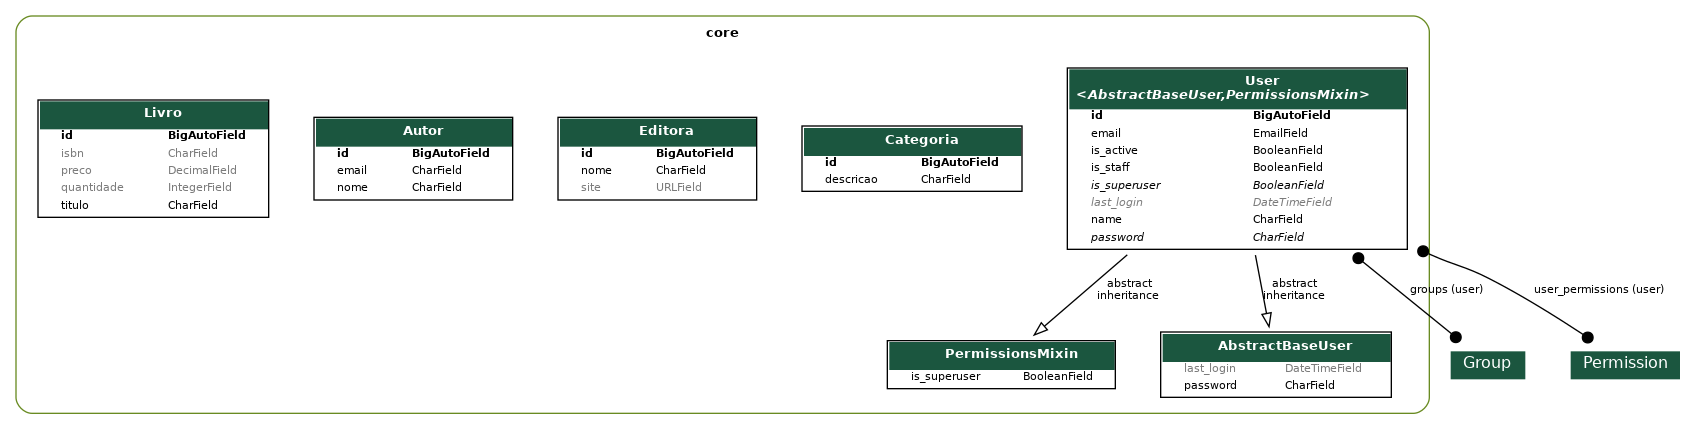
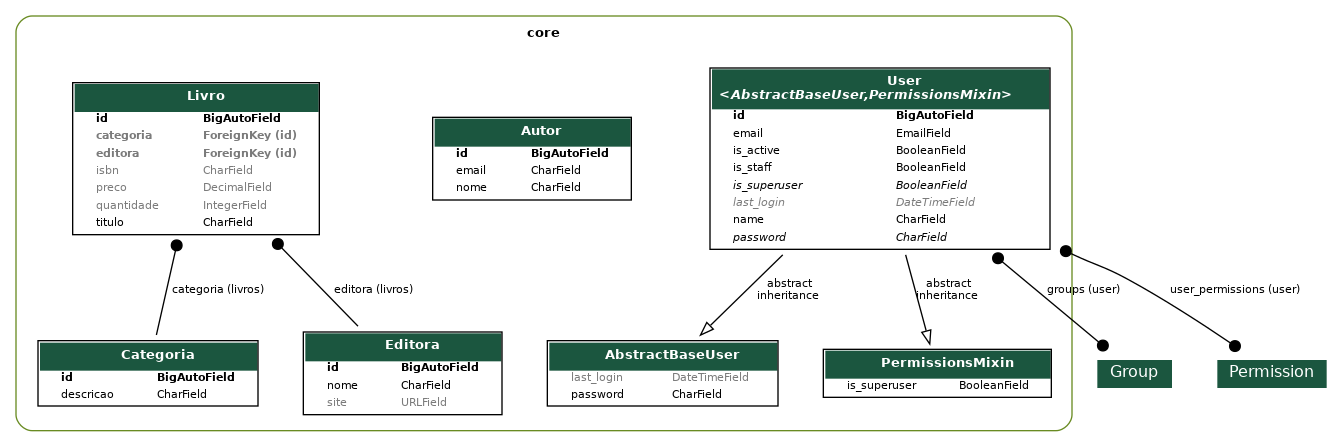
foreignKey

diff --git a/core/migrations/0007_livro_categoria_livro_editora.py b/core/migrations/0007_livro_categoria_livro_editora.py
@@ -1,0 +1,36 @@
+# Generated by Django 5.0.2 on 2024-08-05 14:03
+
+import django.db.models.deletion
+from django.db import migrations, models
+
+
+class Migration(migrations.Migration):
+
+    dependencies = [
+        ("core", "0006_livro"),
+    ]
+
+    operations = [
+        migrations.AddField(
+            model_name="livro",
+            name="categoria",
+            field=models.ForeignKey(
+                blank=True,
+                null=True,
+                on_delete=django.db.models.deletion.PROTECT,
+                related_name="livros",
+                to="core.categoria",
+            ),
+        ),
+        migrations.AddField(
+            model_name="livro",
+            name="editora",
+            field=models.ForeignKey(
+                blank=True,
+                null=True,
+                on_delete=django.db.models.deletion.PROTECT,
+                related_name="livros",
+                to="core.editora",
+            ),
+        ),
+    ]

diff --git a/core/models/livro.py b/core/models/livro.py
@@ -1,10 +1,16 @@
 from django.db import models
+from .categoria import Categoria
+from .editora import Editora
 
 class Livro(models.Model):
     titulo = models.CharField(max_length=255)
     isbn = models.CharField(max_length=32, null=True, blank=True)
     quantidade = models.IntegerField(default=0,  null=True, blank=True)
     preco = models.DecimalField(max_digits=7, decimal_places=2, default=0, null=True, blank=True)
+    categoria = models.ForeignKey(
+        Categoria, on_delete=models.PROTECT, related_name="livros", null=True, blank=True)
+    editora = models.ForeignKey(Editora, on_delete=models.PROTECT, related_name="livros", null=True, blank=True)
+
 
     def __str__(self):
         return f"({self.id}) {self.titulo} ({self.quantidade})"
